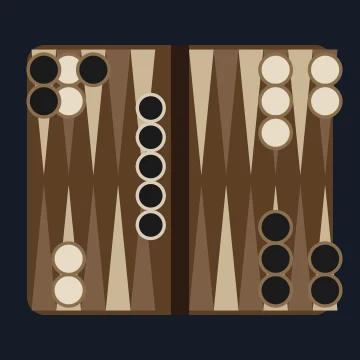
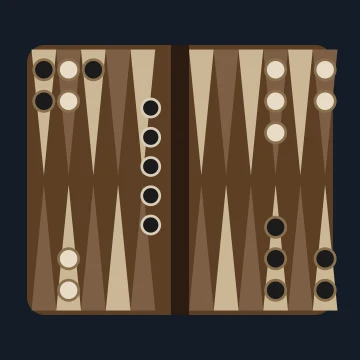
fix: corrige cores dos dados na abertura e reduz pecas do gamao

diff --git a/js/games.js b/js/games.js
@@ -67,7 +67,7 @@ export const GAMES = {
   gamao: {
     title: "Gamão", duel: true, path: "games/gamao/",
     desc: "O backgammon clássico: dados dobres valem quatro jogadas, a barra prende peças e cada jogador tem o próprio relógio.",
-    preview: `<svg viewBox="0 0 160 160" aria-hidden="true"><rect width="160" height="160" rx="10" fill="#141c26"/><rect x="12" y="20" width="136" height="120" rx="8" fill="#5c3f26"/><rect x="76" y="20" width="8" height="120" fill="#2b1c10"/><g fill="#cbb894"><path d="M14 22L25 22L19.5 78Z"/><path d="M36 22L47 22L41.5 78Z"/><path d="M58 22L69 22L63.5 78Z"/><path d="M84 22L95 22L89.5 78Z"/><path d="M106 22L117 22L111.5 78Z"/><path d="M128 22L139 22L133.5 78Z"/></g><g fill="#7d5f45"><path d="M25 22L36 22L30.5 78Z"/><path d="M47 22L58 22L52.5 78Z"/><path d="M95 22L106 22L100.5 78Z"/><path d="M117 22L128 22L122.5 78Z"/><path d="M139 22L150 22L144.5 78Z"/></g><g fill="#7d5f45"><path d="M14 138L25 138L19.5 82Z"/><path d="M36 138L47 138L41.5 82Z"/><path d="M58 138L69 138L63.5 82Z"/><path d="M84 138L95 138L89.5 82Z"/><path d="M106 138L117 138L111.5 82Z"/><path d="M128 138L139 138L133.5 82Z"/></g><g fill="#cbb894"><path d="M25 138L36 138L30.5 82Z"/><path d="M47 138L58 138L52.5 82Z"/><path d="M95 138L106 138L100.5 82Z"/><path d="M117 138L128 138L122.5 82Z"/><path d="M139 138L150 138L144.5 82Z"/></g><g stroke="#8a6f4d" stroke-width="1.5"><circle cx="144.5" cy="31" r="7" fill="#e8dcc7"/><circle cx="144.5" cy="45" r="7" fill="#e8dcc7"/><circle cx="122.5" cy="31" r="7" fill="#e8dcc7"/><circle cx="122.5" cy="45" r="7" fill="#e8dcc7"/><circle cx="122.5" cy="59" r="7" fill="#e8dcc7"/><circle cx="30.5" cy="31" r="7" fill="#e8dcc7"/><circle cx="30.5" cy="45" r="7" fill="#e8dcc7"/><circle cx="19.5" cy="31" r="7" fill="#1b1b1b"/><circle cx="19.5" cy="45" r="7" fill="#1b1b1b"/><circle cx="41.5" cy="31" r="7" fill="#1b1b1b"/><circle cx="144.5" cy="129" r="7" fill="#1b1b1b"/><circle cx="144.5" cy="115" r="7" fill="#1b1b1b"/><circle cx="122.5" cy="129" r="7" fill="#1b1b1b"/><circle cx="122.5" cy="115" r="7" fill="#1b1b1b"/><circle cx="122.5" cy="101" r="7" fill="#1b1b1b"/><circle cx="30.5" cy="129" r="7" fill="#e8dcc7"/><circle cx="30.5" cy="115" r="7" fill="#e8dcc7"/></g><g fill="#1b1b1b" stroke="#d9cdb8" stroke-width="1.5"><circle cx="67" cy="48" r="6"/><circle cx="67" cy="61" r="6"/><circle cx="67" cy="74" r="6"/><circle cx="67" cy="87" r="6"/><circle cx="67" cy="100" r="6"/></g></svg>`,
+    preview: `<svg viewBox="0 0 160 160" aria-hidden="true"><rect width="160" height="160" rx="10" fill="#141c26"/><rect x="12" y="20" width="136" height="120" rx="8" fill="#5c3f26"/><rect x="76" y="20" width="8" height="120" fill="#2b1c10"/><g fill="#cbb894"><path d="M14 22L25 22L19.5 78Z"/><path d="M36 22L47 22L41.5 78Z"/><path d="M58 22L69 22L63.5 78Z"/><path d="M84 22L95 22L89.5 78Z"/><path d="M106 22L117 22L111.5 78Z"/><path d="M128 22L139 22L133.5 78Z"/></g><g fill="#7d5f45"><path d="M25 22L36 22L30.5 78Z"/><path d="M47 22L58 22L52.5 78Z"/><path d="M95 22L106 22L100.5 78Z"/><path d="M117 22L128 22L122.5 78Z"/><path d="M139 22L150 22L144.5 78Z"/></g><g fill="#7d5f45"><path d="M14 138L25 138L19.5 82Z"/><path d="M36 138L47 138L41.5 82Z"/><path d="M58 138L69 138L63.5 82Z"/><path d="M84 138L95 138L89.5 82Z"/><path d="M106 138L117 138L111.5 82Z"/><path d="M128 138L139 138L133.5 82Z"/></g><g fill="#cbb894"><path d="M25 138L36 138L30.5 82Z"/><path d="M47 138L58 138L52.5 82Z"/><path d="M95 138L106 138L100.5 82Z"/><path d="M117 138L128 138L122.5 82Z"/><path d="M139 138L150 138L144.5 82Z"/></g><g stroke="#8a6f4d" stroke-width="1.2"><circle cx="144.5" cy="31" r="4.5" fill="#e8dcc7"/><circle cx="144.5" cy="45" r="4.5" fill="#e8dcc7"/><circle cx="122.5" cy="31" r="4.5" fill="#e8dcc7"/><circle cx="122.5" cy="45" r="4.5" fill="#e8dcc7"/><circle cx="122.5" cy="59" r="4.5" fill="#e8dcc7"/><circle cx="30.5" cy="31" r="4.5" fill="#e8dcc7"/><circle cx="30.5" cy="45" r="4.5" fill="#e8dcc7"/><circle cx="19.5" cy="31" r="4.5" fill="#1b1b1b"/><circle cx="19.5" cy="45" r="4.5" fill="#1b1b1b"/><circle cx="41.5" cy="31" r="4.5" fill="#1b1b1b"/><circle cx="144.5" cy="129" r="4.5" fill="#1b1b1b"/><circle cx="144.5" cy="115" r="4.5" fill="#1b1b1b"/><circle cx="122.5" cy="129" r="4.5" fill="#1b1b1b"/><circle cx="122.5" cy="115" r="4.5" fill="#1b1b1b"/><circle cx="122.5" cy="101" r="4.5" fill="#1b1b1b"/><circle cx="30.5" cy="129" r="4.5" fill="#e8dcc7"/><circle cx="30.5" cy="115" r="4.5" fill="#e8dcc7"/></g><g fill="#1b1b1b" stroke="#d9cdb8" stroke-width="1.2"><circle cx="67" cy="48" r="4"/><circle cx="67" cy="61" r="4"/><circle cx="67" cy="74" r="4"/><circle cx="67" cy="87" r="4"/><circle cx="67" cy="100" r="4"/></g></svg>`,
   },
   /* Go é o quarto jogo SÓ de duelo, com ranking Kyu/Dan e handicap automático por diferença de grau. */
   go: {

diff --git a/games/gamao/ui.js b/games/gamao/ui.js
@@ -793,6 +793,9 @@ function setPips(node, value) {
   }
 }
 
+/** A abertura usa um dado de cada cor: o maior é de quem começa e o menor do adversário. */
+const isOpeningTurn = state => state.turnNo === 1 && !state.awaitingRoll;
+
 /** Dado da cor de quem joga: peças escuras jogam dado escuro, peças claras jogam dado claro. */
 function dieNode(value, { button = false, color = game.state.turn } = {}) {
   const node = document.createElement(button ? "button" : "span");
@@ -807,6 +810,8 @@ function renderDice() {
   const state = game.state;
   els.dice.replaceChildren();
   const values = [...new Set(state.dice)].sort((a, b) => a - b);
+  const opening = isOpeningTurn(state);
+  const openingHigh = opening ? Math.max(...state.dice) : null;
   const interactive = !ended && (mode === "local" || (online?.isMyTurn() && !sending)) && selected !== null;
 
   if (!state.dice.length) {
@@ -822,7 +827,8 @@ function renderDice() {
     const left = state.dice.filter(die => die === value).length;
     const wrap = document.createElement("span");
     wrap.className = "die-wrap";
-    const node = dieNode(value, { button: interactive });
+    const color = opening ? (value === openingHigh ? state.turn : opposite(state.turn)) : state.turn;
+    const node = dieNode(value, { button: interactive, color });
     const available = legalForSelected.some(move => move.die === value);
     if (interactive) {
       node.classList.add("pick");
@@ -866,11 +872,13 @@ function playRollEffect(state) {
   const [d1, d2] = state.roll;
   if (!d1 || !d2) return;
   const still = window.matchMedia?.("(prefers-reduced-motion: reduce)").matches;
+  /* Na abertura, o primeiro dado é o de quem começa (o maior) e o segundo é o do adversário. */
+  const colors = isOpeningTurn(state) ? [state.turn, opposite(state.turn)] : [state.turn, state.turn];
 
   const dice = [d1, d2].map((value, i) => {
     const holder = document.createElement("span");
     holder.className = "stage-die" + (i ? " second" : "");
-    const node = dieNode(still ? value : 1 + Math.floor(Math.random() * 6), { color: state.turn });
+    const node = dieNode(still ? value : 1 + Math.floor(Math.random() * 6), { color: colors[i] });
     holder.append(node);
     return { holder, node, value };
   });

diff --git a/js/como-jogar-art.js b/js/como-jogar-art.js
@@ -176,7 +176,7 @@ export function damaPosition(pieces) {
 
 /* ----------------------------------- gamão ----------------------------------- */
 
-const G = { pw: 28, bar: 26, x0: 14, y0: 24, y1: 256, tri: 104, r: 11.5, step: 21.6, trayX: 392, trayW: 36 };
+const G = { pw: 28, bar: 26, x0: 14, y0: 24, y1: 256, tri: 104, r: 9, step: 21.6, trayX: 392, trayW: 36 };
 const HALF = 6 * G.pw;
 const GW = G.trayX + G.trayW + 6, GH = 284;
 export const GAMMON_SIZE = { w: GW, h: GH };
